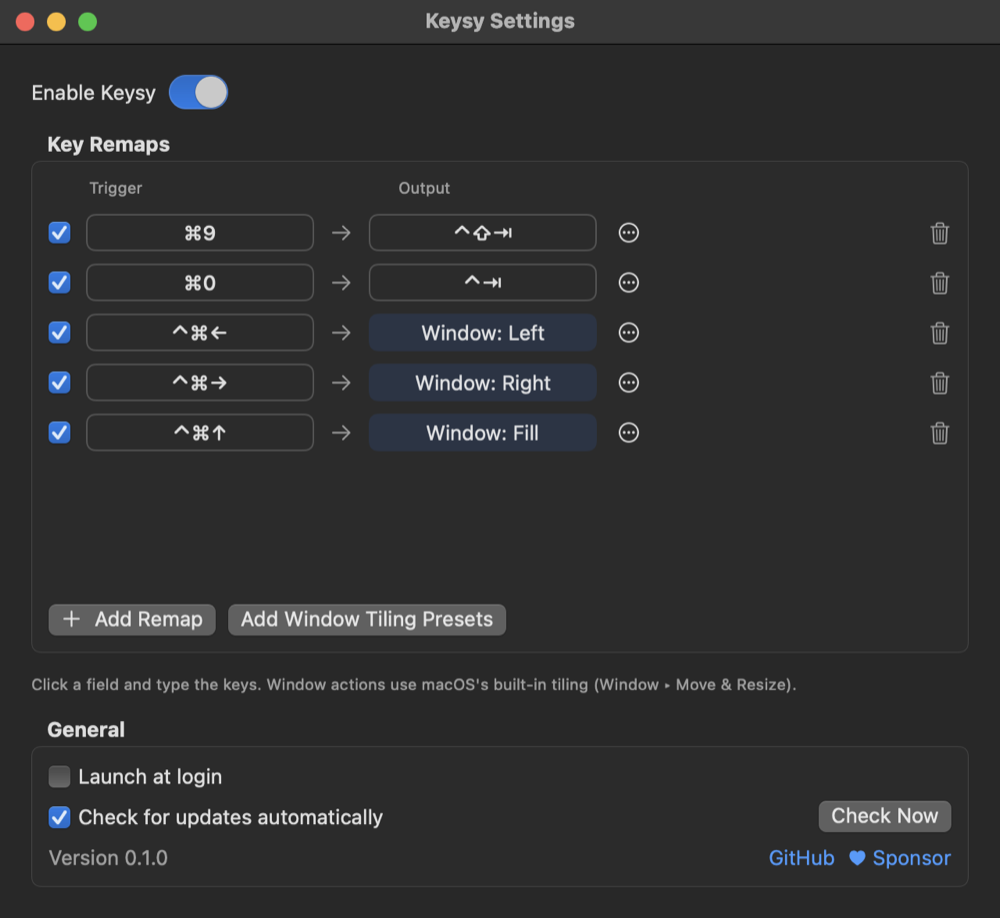
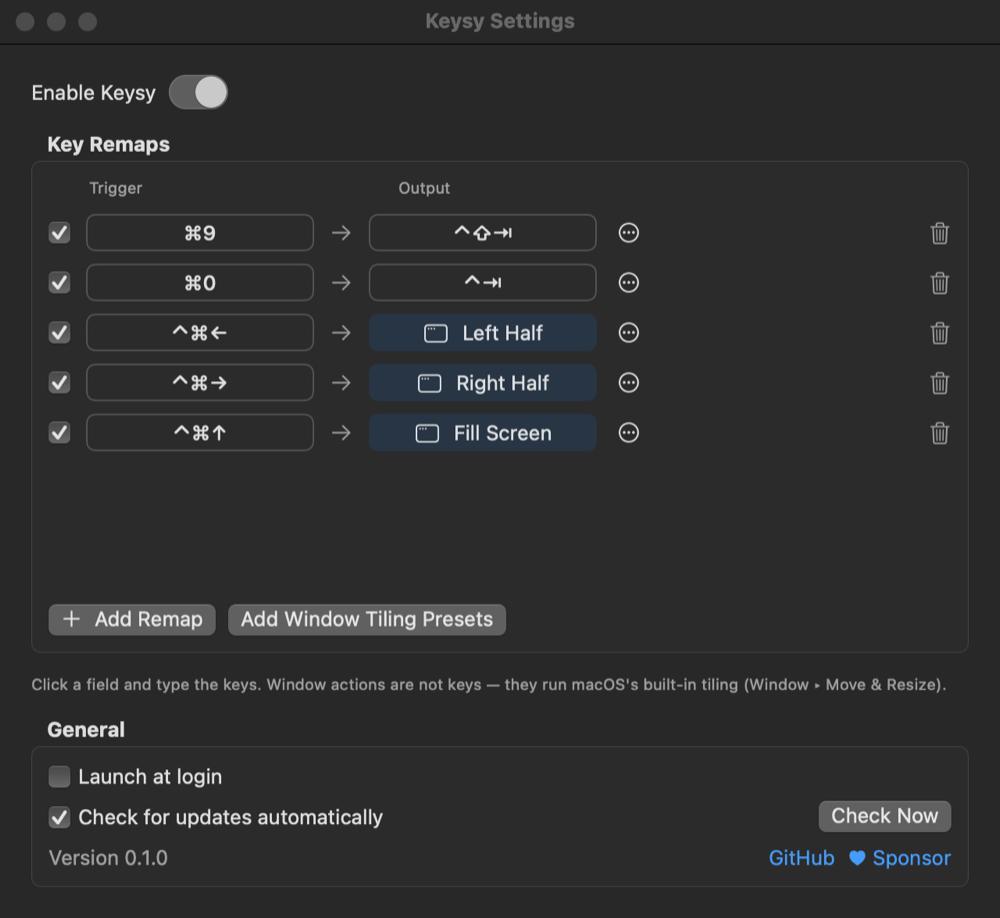
Start with no remaps; label window actions so they don't read as keys

diff --git a/Sources/Keysy/SettingsView.swift b/Sources/Keysy/SettingsView.swift
@@ -113,7 +113,8 @@ struct RuleRow: View {
     @ViewBuilder private var targetEditor: some View {
         switch rule.to {
         case .window(let action):
-            Text(action.display)
+            Label(action.display, systemImage: "macwindow")
+                .help("macOS window action (Window ▸ Move & Resize) — not a keystroke")
                 .frame(minWidth: 130).padding(.vertical, 4).padding(.horizontal, 8)
                 .background(RoundedRectangle(cornerRadius: 6).fill(Color.accentColor.opacity(0.12)))
             targetMenu
@@ -134,9 +135,9 @@ struct RuleRow: View {
         Menu {
             Button("Keystroke (record keys)") { rule.to = currentKeys.map { .keys($0) } }
             Divider()
-            Section("macOS Window Tiling") {
+            Section("Window Action (macOS tiling)") {
                 ForEach(WindowAction.allCases) { a in
-                    Button(a.title) { rule.to = .window(a) }
+                    Button(a.display) { rule.to = .window(a) }
                 }
             }
         } label: { Image(systemName: "ellipsis.circle") }
@@ -172,7 +173,7 @@ struct SettingsView: View {
                     }
                     .font(.caption).foregroundStyle(.secondary)
                     if store.rules.isEmpty {
-                        Text("No remaps yet. Click “Add Remap” and type the keys you want.")
+                        Text("No remaps yet. Click “Add Remap”, then type the trigger and output keys.")
                             .foregroundStyle(.secondary).padding(.vertical, 12)
                     }
                     ScrollView {
@@ -198,7 +199,7 @@ struct SettingsView: View {
                 .padding(6)
             } label: { Text("Key Remaps").font(.headline) }
 
-            Text("Click a field and type the keys. Window actions use macOS's built-in tiling (Window ▸ Move & Resize).")
+            Text("Click a field and type the keys. Window actions are not keys — they run macOS's built-in tiling (Window ▸ Move & Resize).")
                 .font(.caption).foregroundStyle(.secondary)
 
             GroupBox {

diff --git a/Sources/Keysy/Rules.swift b/Sources/Keysy/Rules.swift
@@ -13,6 +13,12 @@ enum RemapTarget: Codable, Hashable {
         case .window(let w): return w.display
         }
     }
+
+    /// Text-only form for menus, marking window actions so they don't read as key names.
+    var menuDisplay: String {
+        if case .window(let w) = self { return "🪟 " + w.display }
+        return display
+    }
 }
 
 struct Rule: Codable, Identifiable, Hashable {
@@ -87,16 +93,6 @@ final class RuleStore: ObservableObject {
         }
     }
 
-    static var defaultRules: [Rule] {
-        let cmd = CGEventFlags.maskCommand.rawValue
-        let ctrl = CGEventFlags.maskControl.rawValue, shift = CGEventFlags.maskShift.rawValue
-        let ctrlCmd = ctrl | cmd
-        return [
-            Rule(from: KeyCombo(keyCode: kVK_ANSI_9, modifiers: cmd), to: .keys(KeyCombo(keyCode: kVK_Tab, modifiers: ctrl | shift))),
-            Rule(from: KeyCombo(keyCode: kVK_ANSI_0, modifiers: cmd), to: .keys(KeyCombo(keyCode: kVK_Tab, modifiers: ctrl))),
-            Rule(from: KeyCombo(keyCode: kVK_LeftArrow, modifiers: ctrlCmd), to: .window(.left)),
-            Rule(from: KeyCombo(keyCode: kVK_RightArrow, modifiers: ctrlCmd), to: .window(.right)),
-            Rule(from: KeyCombo(keyCode: kVK_UpArrow, modifiers: ctrlCmd), to: .window(.fill)),
-        ]
-    }
+    /// Start empty: every user sets up their own remaps.
+    static var defaultRules: [Rule] { [] }
 }

diff --git a/Sources/Keysy/WindowAction.swift b/Sources/Keysy/WindowAction.swift
@@ -35,7 +35,19 @@ enum WindowAction: String, Codable, CaseIterable, Identifiable {
         }
     }
 
-    var display: String { "Window: \(title)" }
+    /// Human-readable description of the action (not a key name).
+    var display: String {
+        switch self {
+        case .fill: return "Fill Screen"
+        case .center: return "Center Window"
+        case .left: return "Left Half"
+        case .right: return "Right Half"
+        case .top: return "Top Half"
+        case .bottom: return "Bottom Half"
+        case .returnToPrevious: return "Restore Previous Size"
+        default: return "Tile \(title)"
+        }
+    }
 
     /// The macOS default shortcut for this command (always includes 🌐⌃).
     var builtInShortcut: KeyCombo {

diff --git a/Sources/Keysy/main.swift b/Sources/Keysy/main.swift
@@ -65,7 +65,7 @@ final class AppDelegate: NSObject, NSApplicationDelegate, NSMenuDelegate {
             menu.addItem(withTitle: "No active remaps", action: nil, keyEquivalent: "").isEnabled = false
         } else {
             for r in active.prefix(30) {
-                let item = NSMenuItem(title: "\(r.from!.display)  →  \(r.to!.display)", action: nil, keyEquivalent: "")
+                let item = NSMenuItem(title: "\(r.from!.display)  →  \(r.to!.menuDisplay)", action: nil, keyEquivalent: "")
                 item.isEnabled = false
                 menu.addItem(item)
             }

diff --git a/README.md b/README.md
@@ -33,16 +33,17 @@
 |---------|----------------------------|----------------------------------------|
 | ⌘9      | ⌃⇧⇥                        | Previous tab                           |
 | ⌘0      | ⌃⇥                         | Next tab                               |
-| ⌃⌘←     | Window: Left               | Tile window to the left half           |
-| ⌃⌘→     | Window: Right              | Tile window to the right half          |
-| ⌃⌘↑     | Window: Fill               | Fill the screen                        |
+| ⌃⌘←     | 🪟 Left Half (window action) | Tile window to the left half         |
+| ⌃⌘→     | 🪟 Right Half (window action)| Tile window to the right half        |
+| ⌃⌘↑     | 🪟 Fill Screen (window action)| Fill the screen                     |
 
-These are installed as the defaults on first launch; change or delete them freely.
+Keysy starts with no remaps — these are just ideas. Window actions are not keys; they run a
+macOS window command (picked from the `⋯` menu next to the output field).
 
 ### Replacing Snappy
 
 macOS 15+ ships window tiling (🌐⌃← / → / F …). Keysy maps your own shortcuts to those
-commands, so the defaults above reproduce [Snappy](https://github.com/jojonki/Snappy)'s
+commands, so the window examples above (or **Add Window Tiling Presets**) reproduce [Snappy](https://github.com/jojonki/Snappy)'s
 ⌃⌘← / ⌃⌘→ / ⌃⌘↑ behaviour. Quit Snappy (or clear its shortcuts) to avoid both apps reacting.
 
 Window actions press the frontmost app's *Window ▸ Move & Resize* menu item through
